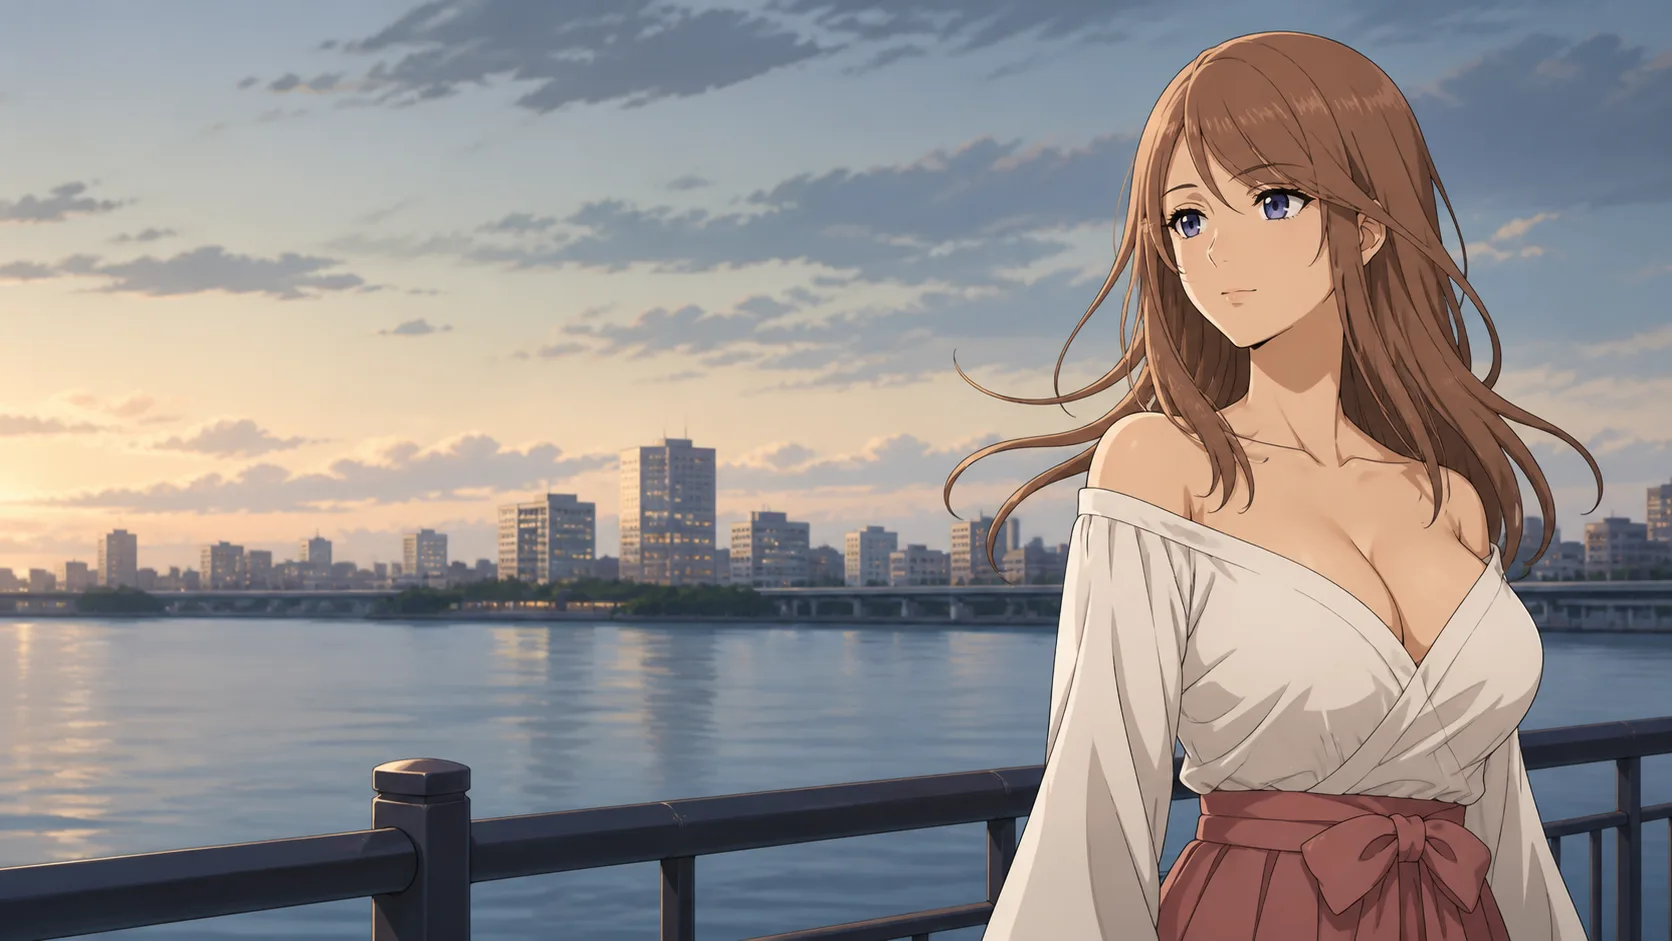
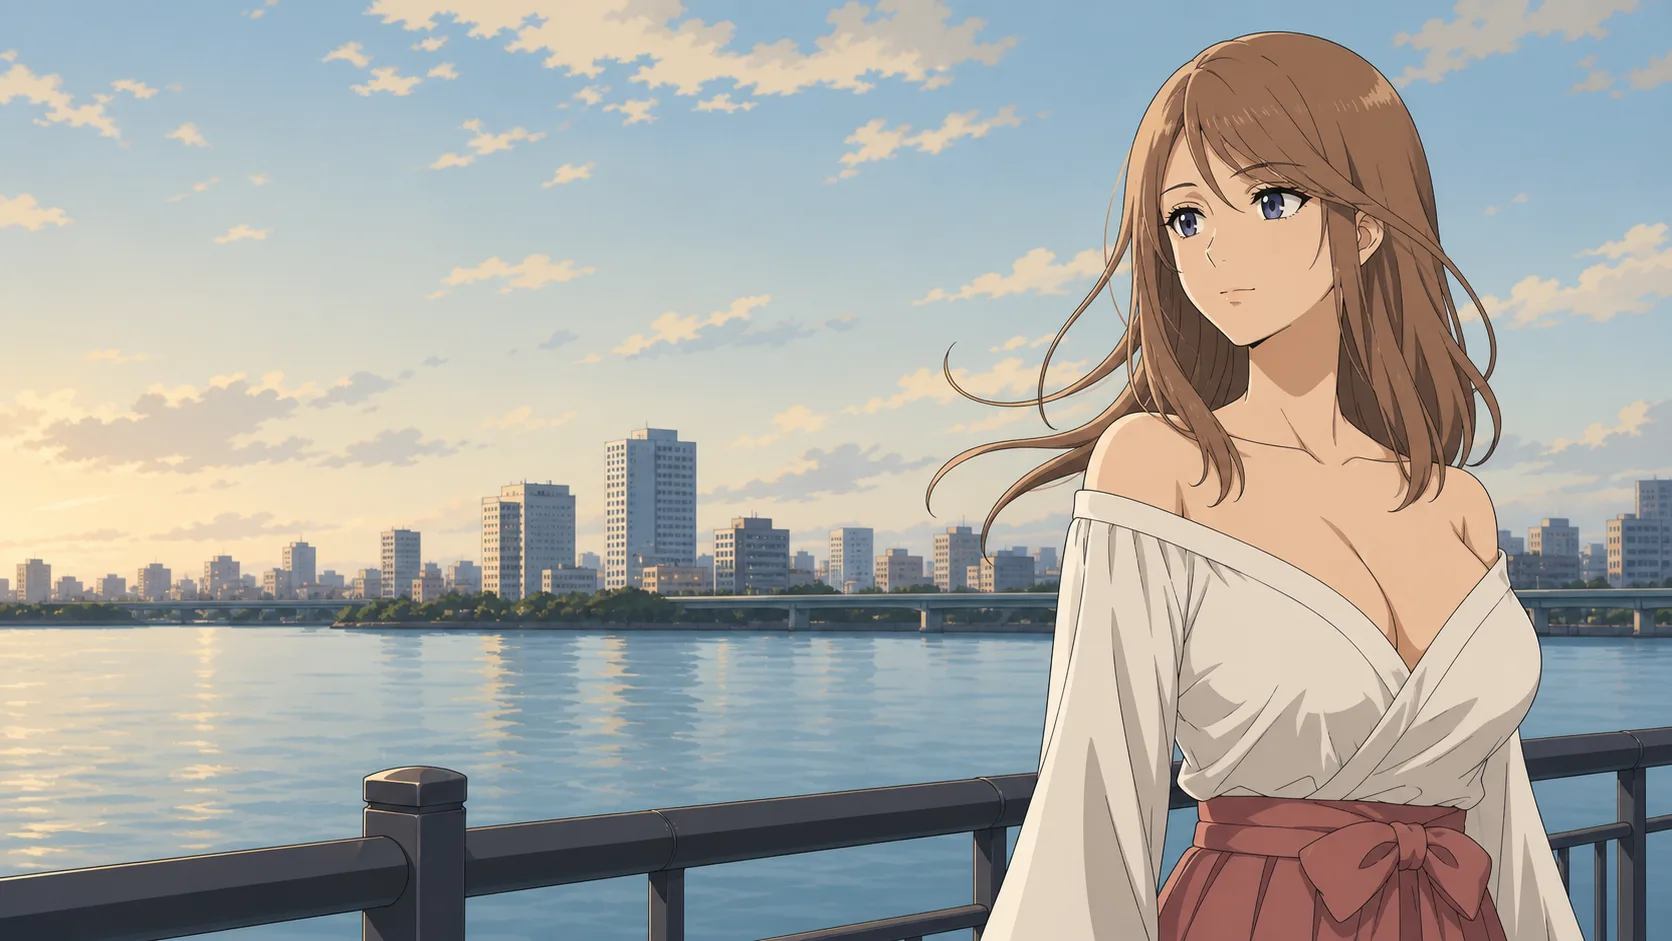
Refine journal covers and Venture posters

diff --git a/src/components/blog/post-header.js b/src/components/blog/post-header.js
@@ -5,6 +5,7 @@ import JapaneseLineBreak from "../japanese-line-break";
 
 const PostHeader = ({ post, locale }) => {
     const translation = post.translations[locale] || post.translations.en;
+    const coverLede = post.cover?.lede?.[locale] || translation.summary;
     const date = new Intl.DateTimeFormat(locale === "ja" ? "ja-JP" : "en-US", {
         year: "numeric",
         month: "long",
@@ -23,7 +24,7 @@ const PostHeader = ({ post, locale }) => {
             </h1>
             <div className="blog-meta">{date}</div>
             <p className="blog-lede">
-                <JapaneseLineBreak>{translation.summary}</JapaneseLineBreak>
+                <JapaneseLineBreak>{coverLede}</JapaneseLineBreak>
             </p>
             <div className="blog-tags">
                 {post.tags.map((tag) => (

diff --git a/src/blog/posts.js b/src/blog/posts.js
@@ -17,6 +17,10 @@ export const posts = [
         media: directingTheReferenceMedia,
         cover: {
             src: directingTheReferenceMedia.hero,
+            lede: {
+                en: "Six input strategies. One locked sequence. A study of what motion preserves, reinterprets, and loses.",
+                ja: "入力資料だけを変え、同じ尺の中で画面設計と動きの差を見比べた演出記録。",
+            },
             alt: {
                 en: "Animation key visual of a woman blowing toward a glowing heart",
                 ja: "光るハートへ息を吹きかける女性のアニメーション・キービジュアル",

diff --git a/src/pages/portfolio.js b/src/pages/portfolio.js
@@ -237,6 +237,7 @@ class Portfolio extends Component {
             },
             {
                 posterImageSrc: ventureEp1p1,
+                posterFit: "contain",
                 title: intl.formatMessage({ id: "projects.venture1p1.title" }),
                 subTitle: intl.formatMessage(
                     {
@@ -421,6 +422,7 @@ class Portfolio extends Component {
             },
             {
                 posterImageSrc: venturePilot,
+                posterFit: "contain",
                 title: intl.formatMessage({ id: "projects.venture.title" }),
                 subTitle: intl.formatMessage(
                     {

diff --git a/src/blog/migrated/introducing-mlops-part-2.js b/src/blog/migrated/introducing-mlops-part-2.js
@@ -36,6 +36,10 @@ export const post = {
     cover: {
         src: coverImage,
         tone: "gold",
+        lede: {
+            en: "What breaks when models, product code, and operations grow without a shared delivery system.",
+            ja: "モデル、プロダクトコード、運用が共通の提供基盤を持たずに成長したとき、何が崩れるのか。",
+        },
         alt: {
             en: "An illustrated machine-learning studio with a notebook and a small production test rig",
             ja: "ノートと小型の本番試験装置が並ぶアニメ背景調の機械学習スタジオ",

diff --git a/src/blog/migrated/journey-creating-an-anime-series.js b/src/blog/migrated/journey-creating-an-anime-series.js
@@ -17,6 +17,10 @@ export const post = {
     },
     cover: {
         src: coverImage,
+        lede: {
+            en: "Six months of production, five years of source stories, and the difficult work of turning a finished pilot into a viable series.",
+            ja: "6か月かけたパイロット版の完成後、放送、映画祭、企画提案を通じてシリーズ化の条件を探った記録。",
+        },
         alt: {
             en: "The Venture protagonist beside Tokyo's waterfront in the evening light",
             ja: "夕暮れの東京の水辺に立つ『Venture』の主人公",

diff --git a/src/blog/migrated/introducing-mlops-part-1.js b/src/blog/migrated/introducing-mlops-part-1.js
@@ -44,6 +44,10 @@ export const post = {
     cover: {
         src: coverImage,
         tone: "cyan",
+        lede: {
+            en: "From a notebook experiment to a service that can be released, observed, and maintained.",
+            ja: "Notebook上の実験を、リリース、監視、保守ができるサービスへつなぐための基礎編。",
+        },
         alt: {
             en: "An illustrated machine-learning studio with a notebook and a small production test rig",
             ja: "ノートと小型の本番試験装置が並ぶアニメ背景調の機械学習スタジオ",

diff --git a/src/blog/migrated/introducing-mlops-part-3.js b/src/blog/migrated/introducing-mlops-part-3.js
@@ -31,6 +31,10 @@ export const post = {
     cover: {
         src: coverImage,
         tone: "violet",
+        lede: {
+            en: "A practical path from one notebook toward repeatable training and production workflows.",
+            ja: "1冊のNotebookから、再現可能な学習と本番運用の流れを段階的につくる実践編。",
+        },
         alt: {
             en: "An illustrated machine-learning studio with a notebook and a small production test rig",
             ja: "ノートと小型の本番試験装置が並ぶアニメ背景調の機械学習スタジオ",

diff --git a/src/blog/migrated/rag-enterprise-documents.js b/src/blog/migrated/rag-enterprise-documents.js
@@ -9,6 +9,10 @@ export const post = {
     media: null,
     cover: {
         src: coverImage,
+        lede: {
+            en: "A field note on evaluation, chunking, and retrieval choices inside a document system built for enterprise scale.",
+            ja: "大規模文書検索を支える評価、分割、検索設計の選択を読み解く技術ノート。",
+        },
         alt: {
             en: "An illustrated archive room with indexed files leading to an open document",
             ja: "索引付きの文書棚から開かれた資料へ続くアニメ背景調の書庫",

diff --git a/src/blog/migrated/aks-nginx-ingress-static-ip.js b/src/blog/migrated/aks-nginx-ingress-static-ip.js
@@ -15,6 +15,10 @@ export const post = {
     },
     cover: {
         src: coverImage,
+        lede: {
+            en: "A concise archive of assigning a stable public address to an nginx ingress controller on AKS.",
+            ja: "AKS上のnginx ingress controllerに固定のパブリックIPを割り当てるための実装記録。",
+        },
         alt: {
             en: "An illustrated network operations room with a switch and a cable routing plan",
             ja: "スイッチと配線図が置かれたアニメ背景調のネットワーク運用室",

diff --git a/src/blog/migrated/local-vscode-cloud-gpus.js b/src/blog/migrated/local-vscode-cloud-gpus.js
@@ -11,6 +11,10 @@ export const post = {
     media: null,
     cover: {
         src: coverImage,
+        lede: {
+            en: "A hands-on route from a familiar local editor to GPU-backed notebooks running in the cloud.",
+            ja: "使い慣れたローカルエディタから、クラウド上のGPU付きNotebookへ接続する実践手順。",
+        },
         alt: {
             en: "An illustrated late-night workspace overlooking a remote server room",
             ja: "遠隔のサーバールームを望むアニメ背景調の夜の作業机",
